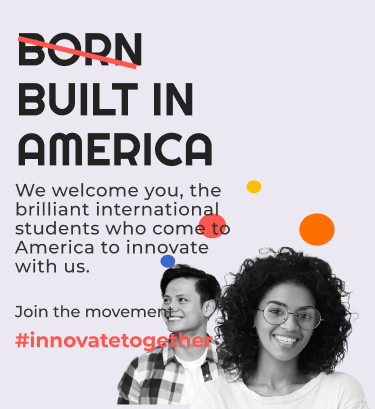
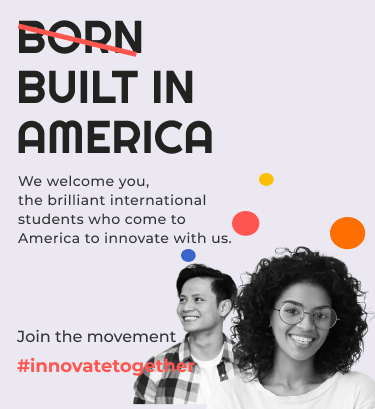
fixed layout and added comments

diff --git a/app/screens/about.js b/app/screens/about.js
@@ -7,22 +7,24 @@ import { ScreenContainer } from 'react-native-screens';
 // importing and using `Carousel`
 //import Carousel from './Carousel';
 
-
-// export const SignIn = ({ navigation}) => { 
+/* This is the about page that contains CFGI news and about information.
+<Image style={{ width: 410, height: 460,top: 80}} source={require("../assets/img/immigrationStories.png")}/>
+ */
  export const AboutScreen = ({ navigation, route}) => { 
-    // const { signIn } = React.useContext(AuthContext);
     return (
         <ScrollView>
         <ScreenContainer style={styles.container}>
         
             <View style={styles.inCol}>
-                <Image style={{width: 360, height: 75,top: 100, left: 20}} source={require("../assets/img/logo-full.png")}/>
-                <Text style={{top:145, fontSize: 26,fontWeight: 'bold'}}>WHAT'S NEW</Text>
-                <Image style={{ width: 410, height: 460,top: 177}} source={require("../assets/img/builtInAmerica.png")}/>
+                <Image style={ styles.logo } source={require("../assets/img/logo-full.png")}/>
+                <Text style={ styles.section1 }>WHAT'S NEW</Text>
+                <Image style={{ width: 410, height: 460,top: 80}} source={require("../assets/img/builtInAmerica.png")}/>
             </View>
 
+            {/* add carousel here put dots for swip*/}
 
-            <View style={{top: 220, alignContent: 'right'}}>
+            {/* about us section */}
+            <View style={{top: 150, alignContent: 'right'}}>
                 <Text style={styles.h1}>ABOUT US</Text>
                 <Image style={styles.yellowLine} source={require("../assets/img/yellowLine.png")}/>
                 <Text style={styles.h2}>What We Do</Text>
@@ -35,7 +37,8 @@ import { ScreenContainer } from 'react-native-screens';
                             work experience.*</Text>
             </View>
 
-            <View style={{top:300, alignContent: 'right'}}>
+            {/* CFGI founders' information */}
+            <View style={{top:200, alignContent: 'right'}}>
                 <Text style={styles.h1}>MEET</Text>
                 <Image style={styles.yellowLine} source={require("../assets/img/yellowLine.png")}/>
                 <Text style={styles.h2}>The Founders</Text>
@@ -43,7 +46,7 @@ import { ScreenContainer } from 'react-native-screens';
             </View>
            
         </ScreenContainer>
-        <View style={{padding:200}}></View>
+        <View style={{padding:100}}></View>
         </ScrollView> 
     );
   }
@@ -54,26 +57,24 @@ import { ScreenContainer } from 'react-native-screens';
         backgroundColor: '#F7F5F9',
         alignItems: 'center',
         justifyContent: 'center',
-      },       
-    header: {
-      top: 50,
-      left: 35,
-      flexDirection: 'column',
+      },
+
+    logo:{
+        top: 20, 
+        width: 300,
+        height: 100,
+        resizeMode:"contain", alignSelf:'center',
     },
 
     h1: {
         color: 'pink', fontSize: 36, textAlign: 'right', right: 15,
     },
-
     h2: {
         top: 5, fontSize: 36, textAlign: 'right', right: 15, paddingBottom:20,
     },
 
     yellowLine: {
         width: 210, height: 20, left: 210,
-    },
-    backbtn: {
-        top: 70, left: 20, width: 50, height: 50,
     },
 
     fullLenImg: {
@@ -84,12 +85,6 @@ import { ScreenContainer } from 'react-native-screens';
         flexDirection: 'column',
       },
 
-    cardLayout: {
-        //flexDirection: 'row',
-        //flexWrap: 'wrap',
-        justifyContent: 'flex-start',
-    },
-
     mainText: { 
         left:20,
         top: 10,
@@ -99,4 +94,10 @@ import { ScreenContainer } from 'react-native-screens';
         paddingTop: 30, 
         paddingBottom: 30
     }, 
+
+    section1:{
+        top: 50, 
+        fontSize: 26,
+        fontWeight: 'bold',
+    },
 });

diff --git a/app/screens/home.js b/app/screens/home.js
@@ -1,24 +1,28 @@
 import * as React from 'react';
 import { View, Text,  StyleSheet, ScrollView,  TouchableOpacity,Image } from "react-native";
 import { AuthContext } from '../screens/context';
-import { Card,ListItem, Button, Icon } from "react-native-elements";
 import { ScreenContainer } from 'react-native-screens';
-import {ProfileScreen} from '../screens/profile.js';
 
+/*
+This is the home page. It contains the cards for Upcomming Appointments 
+Saved Financial Forms. It also links users to the CFGI News and User Profile page.
+*/
  export const HomeScreen = ({navigation}) => { 
     return (
         <ScrollView>
             <ScreenContainer style={styles.container}>
+            {/* top row of navigation */}
             <View style={styles.inRow}> 
                 <TouchableOpacity  onPress={() => navigation.navigate("About")}>
-                    <Image style={ {width: 55, height: 55, top: 20, left: 10} } source={require("../assets/img/CFGInews.png")}/>
+                    <Image style={ styles.icon } source={require("../assets/img/CFGInews.png")}/>
                 </TouchableOpacity>
-                <Image style={{ paddingLeft: 10, paddingRight: 10,width: 270, height: 55, top: 100,left: 5,right: 20}} source={require("../assets/img/logo-full.png")}/>
+                <Image style={styles.logo} source={require("../assets/img/logo-full.png")}/>
                 <TouchableOpacity  onPress={() => navigation.navigate("Profile")}>
-                <Image style={ {width: 50, height: 50, top: 23, left: 5}}  source={require("../assets/img/profile.png")}/>
+                <Image style={ styles.icon }  source={require("../assets/img/profile.png")}/>
                 </TouchableOpacity>
             </View>
 
+            {/* cards for upcomming appointments */}
             <View style={styles.section1}>
                 <Text style={styles.h1}>Upcomming Appointments</Text>
             
@@ -31,6 +35,7 @@ import {ProfileScreen} from '../screens/profile.js';
                 </TouchableOpacity>
             </View> 
 
+            {/* cards for saved financial forms */}
             <View style={styles.section2}>
                 <Text style={styles.h1}>Saved Financial Forms</Text>
                 
@@ -48,23 +53,18 @@ import {ProfileScreen} from '../screens/profile.js';
     );
   }
 
-
   const styles = StyleSheet.create({   
     inRow: {
         flexDirection: 'row',
-        //paddingLeft: 10,
-        //paddingRight: 10,
       },
 
-    img: {
-        paddingLeft: 100,
-        paddingRight: 100,
+    icon:{
+        width: 30, height: 30, margin:50,
     },
 
     PersonImg: {
         width: 80, height: 80,
     },
-
     FormImg: {
         width: 70, height: 70,
     },
@@ -76,32 +76,27 @@ import {ProfileScreen} from '../screens/profile.js';
         fontSize: 13, left: 10, top: 10
     },
 
-    cardArrow: {
-        top: 30, left: 10
-    },
-
     h1: {
          fontSize: 22, fontWeight: 'bold', left: 15,
     },
     
     section1: {
-        top: 150, paddingEnd: 20,
+        top: 50, paddingEnd: 20,
     },
     section2: {
-        top: 180, paddingEnd: 20,
+        top: 100, paddingEnd: 20,
+    },
+
+    logo:{
+        resizeMode:"contain", alignSelf:'center',
     },
 
     container: {
     flex: 1,
     alignItems: 'center',
     justifyContent: 'center',
+    backgroundColor: '#F7F5F9',
     },
-
-    mainText: {
-        color: 'purple',
-        paddingTop: 5,
-        paddingBottom: 2,
-    }, 
 
     cardLayout: {
         flexDirection: 'row', 
@@ -112,5 +107,4 @@ import {ProfileScreen} from '../screens/profile.js';
         borderRadius: 10,
         padding: 10,
     },
-
 });

diff --git a/app/screens/profile.js b/app/screens/profile.js
@@ -5,19 +5,21 @@ import { AuthContext } from '../screens/context';
 import { Card,ListItem, Icon } from "react-native-elements";
 import { ScreenContainer } from 'react-native-screens';
 
-
-// export const SignIn = ({ navigation}) => { 
+/*
+This is the user profile page. Most functionalities listed in the cards below
+are currently not within the scope of our project. 
+*/
  export const ProfileScreen = ({ navigation, route}) => { 
-    // const { signIn } = React.useContext(AuthContext);
     return (
         <ScrollView>
         <ScreenContainer style={styles.inCol}>
-
+           {/* user information */}
             <View style={styles.userContainer}>
                 <Image style={{width: 120, height: 120}} source={require("../assets/img/user.png")}/>
                 <Text style={styles.mainText}>User Name{"\n"}Email: XXXXXXXX</Text>
             </View>
 
+            {/* settings options */}
             <View style={{top: 150}}>
                     <Card name="card" style={styles.cardLayout} pointerEvents="none">        
                         <Text >Change Email Address</Text>
@@ -51,18 +53,14 @@ import { ScreenContainer } from 'react-native-screens';
       left: 35,
       flexDirection: 'row',
     },
+
     inCol: {
         justifyContent: 'flex-start',
         flexDirection: 'column',
+        backgroundColor: '#F7F5F9',
       },
-      container: {
-        flex: 1,
-        alignItems: 'center',
-        justifyContent: 'center',
-        },
+    
     cardLayout: {
-        //flexDirection: 'row',
-        //flexWrap: 'wrap',
         justifyContent: 'flex-start',
     },
 
